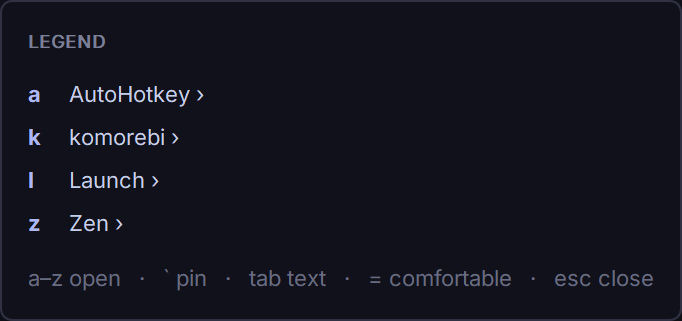
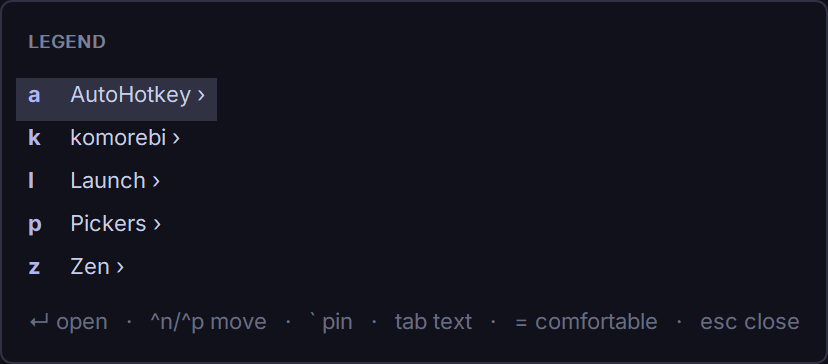
README: refresh screenshots; add picker and window switcher
The index now shows the selection bar and the shared key-scheme footer.
New pictures: a filtered picker and the window switcher (demo titles).

Claude-Session: https://claude.ai/code/session_01EGM256u2YUxjGNbwDZaxaK

diff --git a/README.md b/README.md
@@ -87,6 +87,11 @@ density, Esc cancels. Items are
 Alt+/). Letters are assigned home row first and never use h/j/k/l or the
 trigger's key.
 
+<p align="center">
+  <img src="docs/images/picker-filter.png" width="380"
+       alt="A picker filtered by typing / re: three matching rows, the first selected">
+</p>
+
 ## Window switcher
 
 ```ahk
@@ -102,6 +107,11 @@ The highlighted window comes forward and gets an outline (theme color
 default restore-and-activate) and `Detail` (`win => text`, the row's detail;
 `win` has `Hwnd, Title, App, X, Y, W, H, Monitor, Minimized, Cloaked,
 OnCurrentDesktop`).
+
+<p align="center">
+  <img src="docs/images/window-switcher.png" width="423"
+       alt="The window switcher: windows with icons, letters and app · workspace details, the previous window selected">
+</p>
 
 `LegendWindows.Focus(direction)` (`"left"`, `"right"`, `"up"`, `"down"`) activates the
 nearest visible window that way by top-left corners, crossing to the next
@@ -149,7 +159,7 @@ for the active window; only a match given in code makes hotkeys app-specific.
 > closes); page with Ctrl+F/Ctrl+B, PgDn/PgUp or Space.
 
 <p align="center">
-  <img src="docs/images/overlay-index.png" width="341" alt="The index of pages, each with its letter">
+  <img src="docs/images/overlay-index.png" width="414" alt="The index of pages, each with its letter">
   &nbsp;
   <img src="docs/images/overlay-symbols.png" width="362" alt="The komorebi page with keys shown as symbols (Tab)">
 </p>

diff --git a/TODO.md b/TODO.md
@@ -8,7 +8,3 @@
   monitor or virtual desktop, and so on. Later.
 - Find list of shortcuts to adapt so we can provide a few good collections:
   https://github.com/solomkinmv/hotkys/tree/main
-- Refresh the README screenshots (docs/images, taken 2026-09-28): footers now use
-  the shared key scheme (↵ open · ^n/^p move · ^f/^b), menus show a selection
-  bar, and there is no picture of a picker or the window switcher yet. The
-  w11dwm-config README reuses the overlay and chord images.
